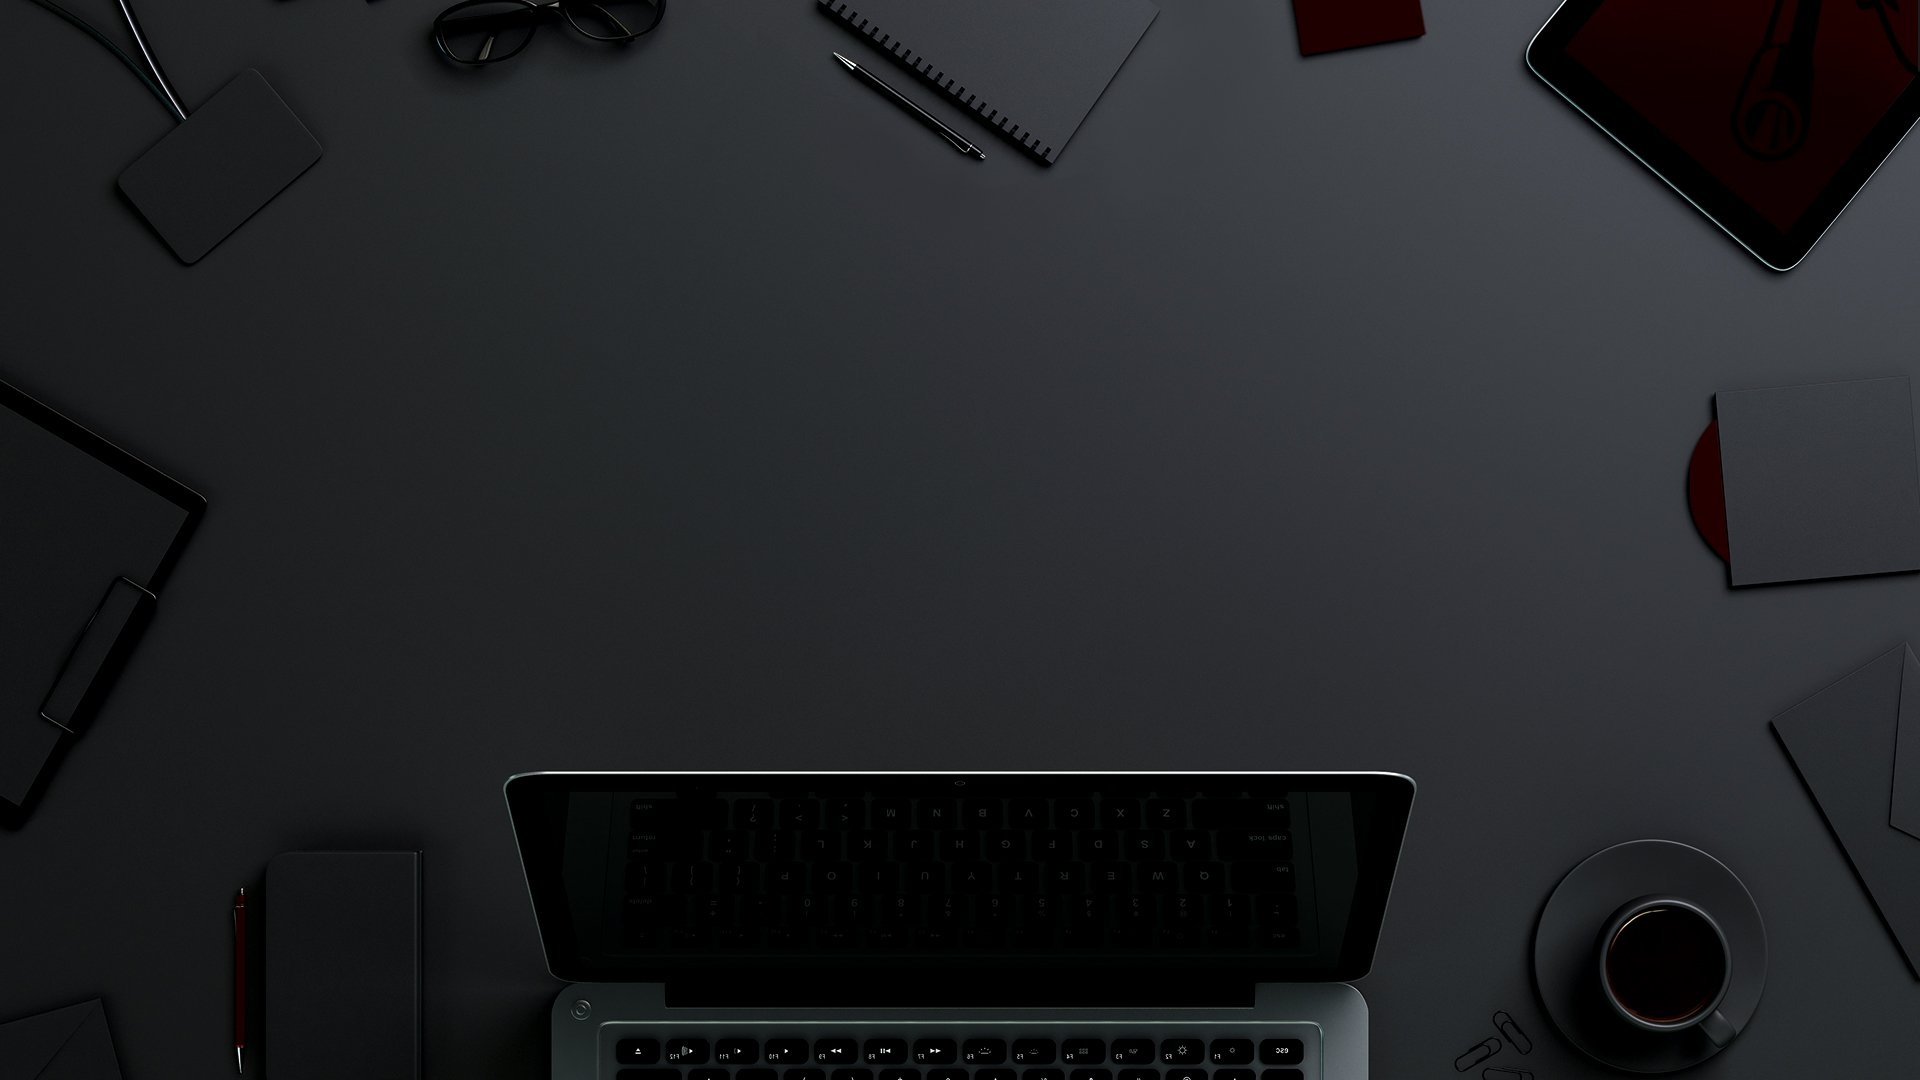
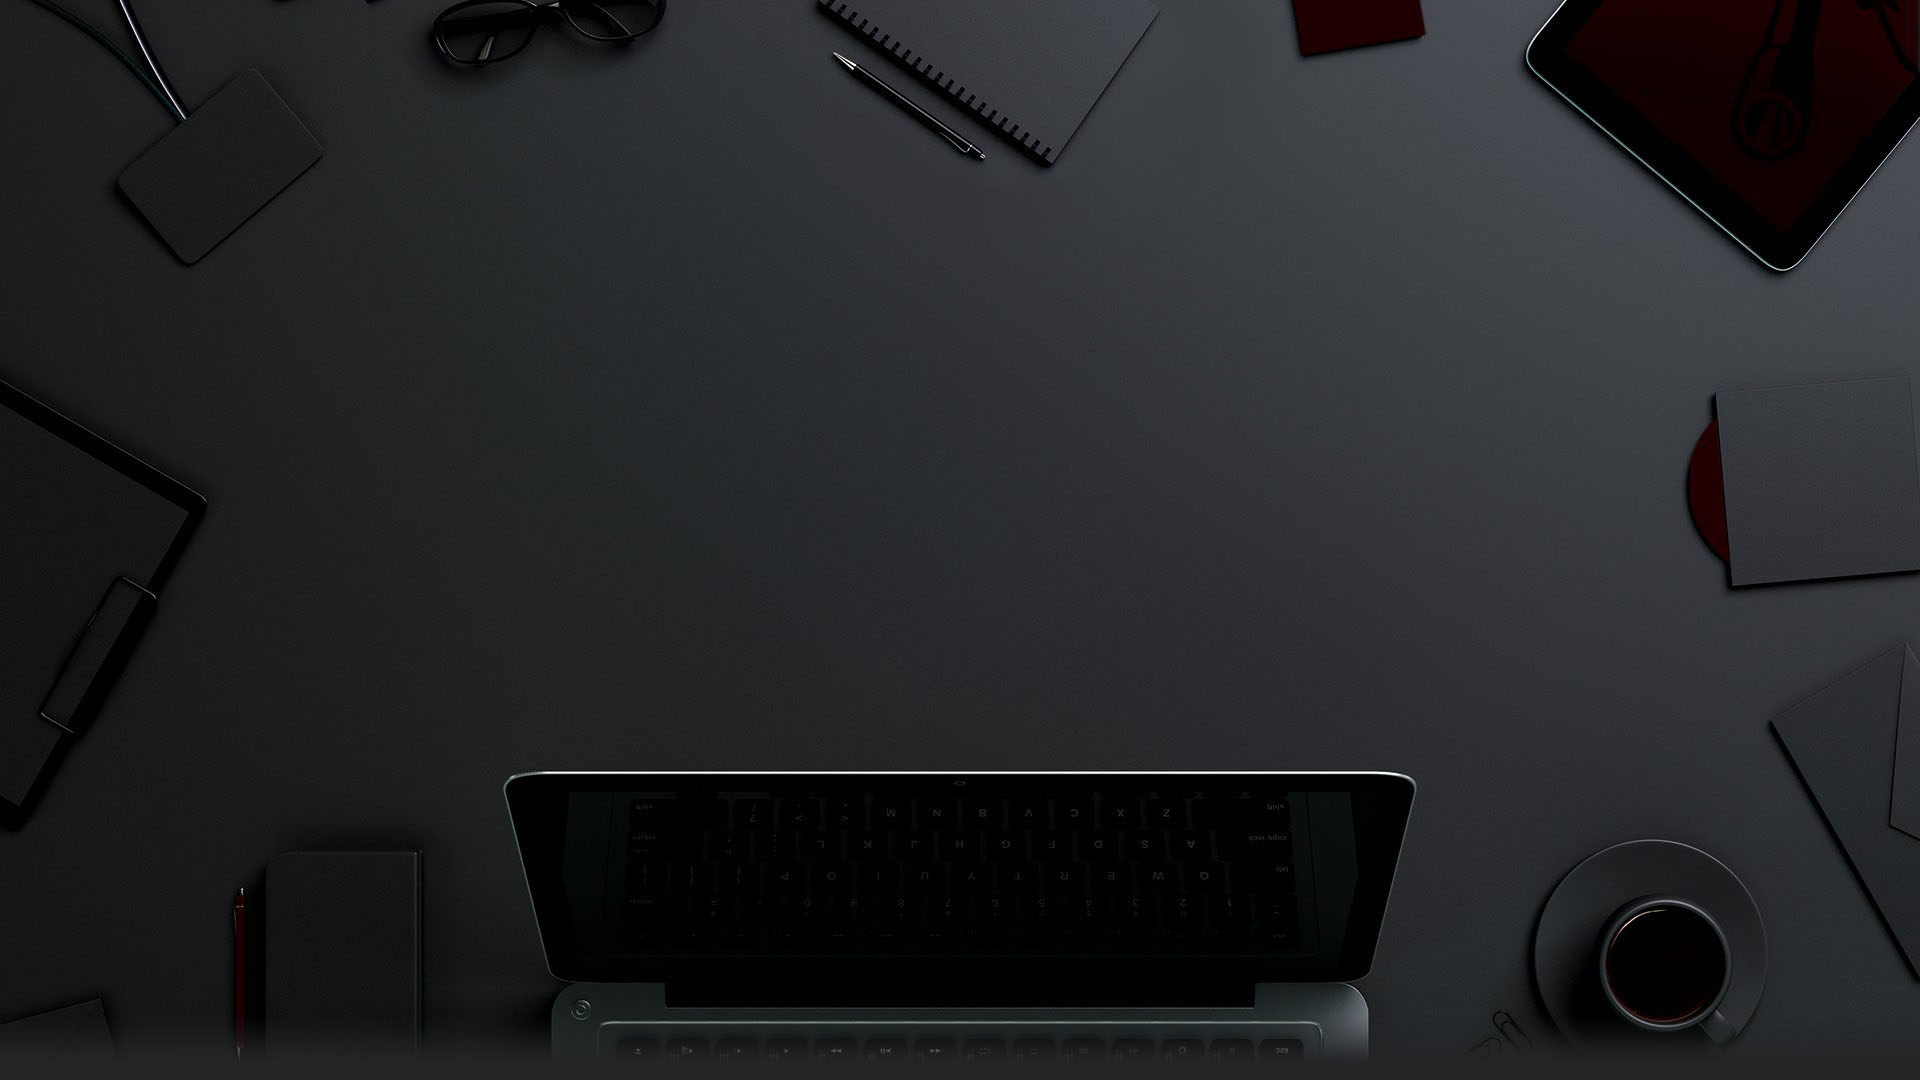
I hope everything has been done

diff --git a/src/components/pages/archive/archive.js b/src/components/pages/archive/archive.js
@@ -11,19 +11,21 @@ import {
 
 const Archive = () => {
     const { archiveState, archiveDispatch } = useContext(StoreContext);
-    let [ activities, updateActivitiesList ] = useState(archiveState.activities);
+    let activities = archiveState.activities;
+    let [ forUpdatingFlag, updateComponent ] = useState(false);
+
+    if(activities.length === 0) return <H1>There are no activities in the list.</H1>;
 
     const doAction = (key, action) => {
         archiveDispatch(action(key));
         localStorage.setItem('archiveState', JSON.stringify(archiveState));
-        activities = [...archiveState.activities];
-        updateActivitiesList(activities);
+        updateComponent(!forUpdatingFlag);
     }
 
     const styledActivities = activities.map( (value) => {
         const { accessibility, activity, key, participants, price, type, isFavourite } = value;
         const parameters = `Accessibility: ${accessibility} Participants: ${participants} Price: ${price} Type: ${type}`;
-        const bold = (isFavourite) ? { fontWeight: 'bold' } : {};
+        const bold = (isFavourite) ? { fontWeight: 'bold', fontStyle: 'italic' } : {};
         const star = (isFavourite) ? 
             <SolidStar title="Make activity non favourite" onClick={() => doAction(key, toggleFavouriteActivityAction)} /> : 
             <Star title="Make activity favourite" onClick={() => doAction(key, toggleFavouriteActivityAction)}/>
@@ -31,7 +33,7 @@ const Archive = () => {
         return (
             <ArchiveItem key={key}>
                 <ArchiveData>
-                    <ArchiveItemTitle style={bold} >{activity}</ArchiveItemTitle>
+                    <ArchiveItemTitle style={bold} onClick={() => doAction(key, toggleFavouriteActivityAction)} >{activity}</ArchiveItemTitle>
                     <ArchiveItemParameters>{parameters}</ArchiveItemParameters>
                 </ArchiveData>
 
@@ -49,7 +51,29 @@ const Archive = () => {
             </ActivitiesContainer>
         </div>
     );
+
 }
+
+const H1 = styled.h1`
+    margin-top: 250px;
+    text-align: center;
+    color: #fff;
+    font-family: 'Nunito Sans', sans-serif;
+    font-size: 50px;
+
+    @media (max-width: 992px) {
+        font-size: 40px; 
+    }
+
+    @media (max-width: 768px) {
+        font-size: 33px;
+    }
+
+    @media (max-width: 576px) {
+        font-size: 25px; 
+    } 
+
+`;
 
 const ArchiveTitle = styled.span`
     width: 100%;
@@ -63,7 +87,6 @@ const ArchiveTitle = styled.span`
 
 const ActivitiesContainer = styled.div`
     margin-bottom: 20px;
-    //border-bottom: 1px dashed #fff;
 `;
 
 const ArchiveItem = styled.div`
@@ -74,6 +97,10 @@ const ArchiveItem = styled.div`
     justify-content: center;
     align-items: center;
     padding: 10px;
+
+    @media (max-width: 768px) {
+        padding: 5px 10px;
+    }
 `;
 
 const ArchiveData = styled.div`
@@ -84,6 +111,11 @@ const ArchiveItemTitle = styled.div`
     color: #fff;
     font-family: 'Nunito Sans', sans-serif;
     font-size: 27px;
+    cursor: pointer;
+
+    @media (max-width: 768px) {
+        font-size: 22px;
+    }
 `;
 
 const ArchiveItemParameters = styled.div`
@@ -91,6 +123,15 @@ const ArchiveItemParameters = styled.div`
     font-family: 'Nunito Sans', sans-serif;
     font-size: 15px;
     margin-top: 10px;
+
+    @media (max-width: 768px) {
+        font-size: 12px;
+    }
+
+    @media (max-width: 576px) {
+        font-size: 9px; 
+    } 
+
 `;
 
 const Star = styled.div`

diff --git a/src/components/header/header.js b/src/components/header/header.js
@@ -1,20 +1,47 @@
-import React, { useContext } from 'react';
+import React, { useState } from 'react';
 import styled from 'styled-components';
 import { Link } from 'react-router-dom';
-import StoreContext from '../store-context';
-import { setActiveMainMenuItem } from '../../actions';
+
+const mainMenuItems = {
+    items: [
+      {
+        id: 0,
+        title: 'Find Activity',
+        link: '/'
+      },
+      {
+        id: 1,
+        title: 'Archive',
+        link: '/archive'
+      },
+      {
+        id: 2,
+        title: 'About',
+        link: '/about'
+      }
+    ]
+};
+
+const getActiveMenuItemLink = () => {
+    const url = window.location.href;
+    const urlParts = url.split('/');
+    const link = '/' + urlParts[ urlParts.length - 1 ];
+
+    return link;
+}
 
 const Header = () => {
-    const { mainMenuState, mainMenuDispatch } = useContext(StoreContext);
-  
-    const styledItems = mainMenuState.items.map(
+    let [ forUpdatingFlag, updateComponent ] = useState(false);
+    const activeMenuItemLink = getActiveMenuItemLink();
+
+    const styledItems = mainMenuItems.items.map(
     
         (item) => {
             const { id, title, link } = item;
-            const isSelectedStyles = (mainMenuState.selectedItemId === id) ? {fontWeight: 600, color: '#fff'} : {};
+            const isSelectedStyles = (link === activeMenuItemLink) ? {fontWeight: 600, color: '#fff'} : {};
             return (
                 <MainMenuItem key={id}>
-                    <Link to={link} style={isSelectedStyles} onClick={() => mainMenuDispatch(setActiveMainMenuItem(id))}>{title}</Link>
+                    <Link to={link} style={isSelectedStyles} onClick={() => updateComponent(!forUpdatingFlag)} >{title}</Link>
                 </MainMenuItem>
             );
         }
@@ -25,7 +52,7 @@ const Header = () => {
         <HeaderContainer>
             <LogoContainer>
                 <Logo>
-                    <Link to="/">WhatToD&#216;?</Link>
+                    <Link to="/" onClick={() => updateComponent(!forUpdatingFlag)} >WhatToD&#216;?</Link>
                 </Logo>
             </LogoContainer>
             <MainMenuContainer>

diff --git a/src/components/app/app.js b/src/components/app/app.js
@@ -3,8 +3,6 @@ import styled from 'styled-components';
 import { BrowserRouter as Router, Switch, Route } from 'react-router-dom';
 import StoreContext from '../store-context';
 import { 
-    mainMenuInitialState, 
-    updateMainMenuReducer, 
     customSettingsInitialState, 
     updateCustomSettingsReducer, 
     archiveInitialState, 
@@ -19,20 +17,18 @@ import AboutPage from '../pages/about-page/about-page';
 import Page404 from '../pages/page-404/page-404';
 
 const App = () => {
-  const [ mainMenuState, mainMenuDispatch ] = useReducer(updateMainMenuReducer, mainMenuInitialState);
   const [ customSettingsState, customSettingsDispatch ] = useReducer(updateCustomSettingsReducer, customSettingsInitialState);
   const [ archiveState, archiveDispatch ] = useReducer(updateArchiveReducer, archiveInitialState);
 
   useEffect(() => {
 
-    localStorage.setItem('mainMenuState', JSON.stringify(mainMenuState)); 
-    localStorage.setItem('customSettingsState', JSON.stringify(customSettingsState));
-    localStorage.setItem('archiveState', JSON.stringify(archiveState));
+      localStorage.setItem('customSettingsState', JSON.stringify(customSettingsState));
+      localStorage.setItem('archiveState', JSON.stringify(archiveState));
 
   });
 
   return (
-    <StoreContext.Provider value={{ mainMenuDispatch, mainMenuState, customSettingsState, customSettingsDispatch, archiveState, archiveDispatch }}>
+    <StoreContext.Provider value={{ customSettingsState, customSettingsDispatch, archiveState, archiveDispatch }}>
       <Router>
         <Main>
             <Header />

diff --git a/src/components/pages/main-page/loaded-activity.js b/src/components/pages/main-page/loaded-activity.js
@@ -80,6 +80,7 @@ const LoadedActivityContainer = () => {
 
             if (inArray === undefined) {
                 archiveDispatch(archiveNewActivityAction(state.data));
+                localStorage.setItem('archiveState', JSON.stringify(archiveState));
                 setState({ ...state, isArchiveAdding: true, archiveAddingResultMessage: 'The activity has been added to the archive' });
             } else {
                 setState({ ...state, isArchiveAdding: true, archiveAddingResultMessage: 'Such activity is in the archive already' });

diff --git a/src/store/index.js b/src/store/index.js
@@ -1,10 +1,7 @@
-import { mainMenuInitialState, updateMainMenuReducer } from './main-menu';
 import { customSettingsInitialState, updateCustomSettingsReducer } from './custom-settings';
 import { archiveInitialState, updateArchiveReducer } from './archive';
 
 export {
-    mainMenuInitialState,
-    updateMainMenuReducer,
     customSettingsInitialState,
     updateCustomSettingsReducer,
     archiveInitialState,

diff --git a/src/actions/index.js b/src/actions/index.js
@@ -1,5 +1,3 @@
-import setActiveMainMenuItem from './main-menu-actions';
-
 import {     
         setSelectedTypeOfAction,
         setSelectedCustomActivity,
@@ -18,7 +16,6 @@ import {
 } from './archive-actions';
 
 export {
-    setActiveMainMenuItem,
     setSelectedTypeOfAction,
     setSelectedCustomActivity,
     incValueAction,

diff --git a/public/css/main.css b/public/css/main.css
@@ -1,3 +1,3 @@
 body {
-    background-image: url('../img/black.jpg');
+    background: url('../img/black.jpg') no-repeat #242527;
 }
